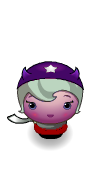
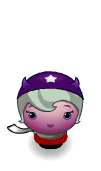
Added collision detection and losing game graphic

Changed region(s): [[0.0594, 0.3509, 0.8317, 0.9357]]

diff --git a/js/app.js b/js/app.js
@@ -40,28 +40,52 @@ var Player = function(x, y) {
 	this.ymovement = 83;
 	this.xmin = 1;
 	this.xmax = 405;
-	this.ytop = -10;
-	this.ybottom = 405;
+	this.ytop = -20;
+	this.ybottom = 395;
 	this.sprite = 'images/purpl.png';
-	this.update = function () {};
-	this.render = function () {
-		ctx.drawImage(Resources.get(this.sprite), this.x, this.y);
-	};
-	this.handleInput = function(keypress) {
-		switch (true) {
-		case (keypress == 'left' && this.x > this.xmin):
-			this.x = this.x - this.xmovement;
-			break;
-		case (keypress == 'right' && this.x < this.xmax):
-			this.x = this.x + this.xmovement;
-			break;
-		case (keypress == 'up' && this.y > this.ytop):
-			this.y = this.y - this.ymovement;
-			break;
-		case (keypress == 'down' && this.y < this.ybottom):
-			this.y = this.y + this.ymovement;
-			break;
+	this.gameover = false;
+	this.handleInput = keypress => {
+		console.log(this.gameover);
+		if (!this.gameover) {
+			switch (true) {
+			case (keypress == 'left' && this.x > this.xmin):
+				this.x = this.x - this.xmovement;
+				break;
+			case (keypress == 'right' && this.x < this.xmax):
+				this.x = this.x + this.xmovement;
+				break;
+			case (keypress == 'up' && this.y > this.ytop):
+				this.y = this.y - this.ymovement;
+				break;
+			case (keypress == 'down' && this.y < this.ybottom):
+				this.y = this.y + this.ymovement;
+				break;
+			}
 		}
+	};
+
+	this.update = () => {
+		// Set range for collision 
+		this.xrange = enemylocation => {
+			let range = 55;
+			return enemylocation <= (this.x + range) && enemylocation >= (this.x - range);
+		};
+		// Detect collision detection
+		allEnemies.forEach(ladybug => {
+			if (this.y == ladybug.y && this.xrange(ladybug.x)) {
+				this.sprite = 'images/squash.png';
+				// End of game display
+				this.endGame('lose');
+			}
+		});
+		// End of game display
+		if (this.y == this.ytop) {
+			this.endGame('win');
+		}
+	};
+
+	this.render = () => {
+		ctx.drawImage(Resources.get(this.sprite), this.x, this.y);
 	};
 };
 
@@ -77,8 +101,8 @@ var enemythree = new Enemy(170, 50, 146);
 var enemyfour = new Enemy(130, 450, 229);
 var enemyfive = new Enemy(130, 110, 229);
 
-var allEnemies = [enemyone, enemytwo, enemythree, enemyfour, enemyfive];
-var player = new Player(203, 405);
+let allEnemies = [enemyone, enemytwo, enemythree, enemyfour, enemyfive];
+let player = new Player(203, 395);
 
 
 

diff --git a/js/engine.js b/js/engine.js
@@ -79,7 +79,7 @@ var Engine = (function(global) {
      */
     function update(dt) {
         updateEntities(dt);
-        // checkCollisions();
+        checkCollisions();
     }
 
     /* This is called by the update function and loops through all of the
@@ -156,6 +156,10 @@ var Engine = (function(global) {
         player.render();
     }
 
+    function checkCollisions() {
+        win.cancelAnimationFrame(main);
+    }
+
     /* This function does nothing but it could have been a good place to
      * handle game reset states - maybe a new game menu or a game over screen
      * those sorts of things. It's only called once by the init() method.
@@ -173,8 +177,8 @@ var Engine = (function(global) {
         'images/water-block.png',
         'images/grass-block.png',
         'images/enemy-bug.png',
-        'images/char-boy.png',
-        'images/purpl.png'
+        'images/purpl.png',
+        'images/squash.png'
     ]);
     Resources.onReady(init);
 
